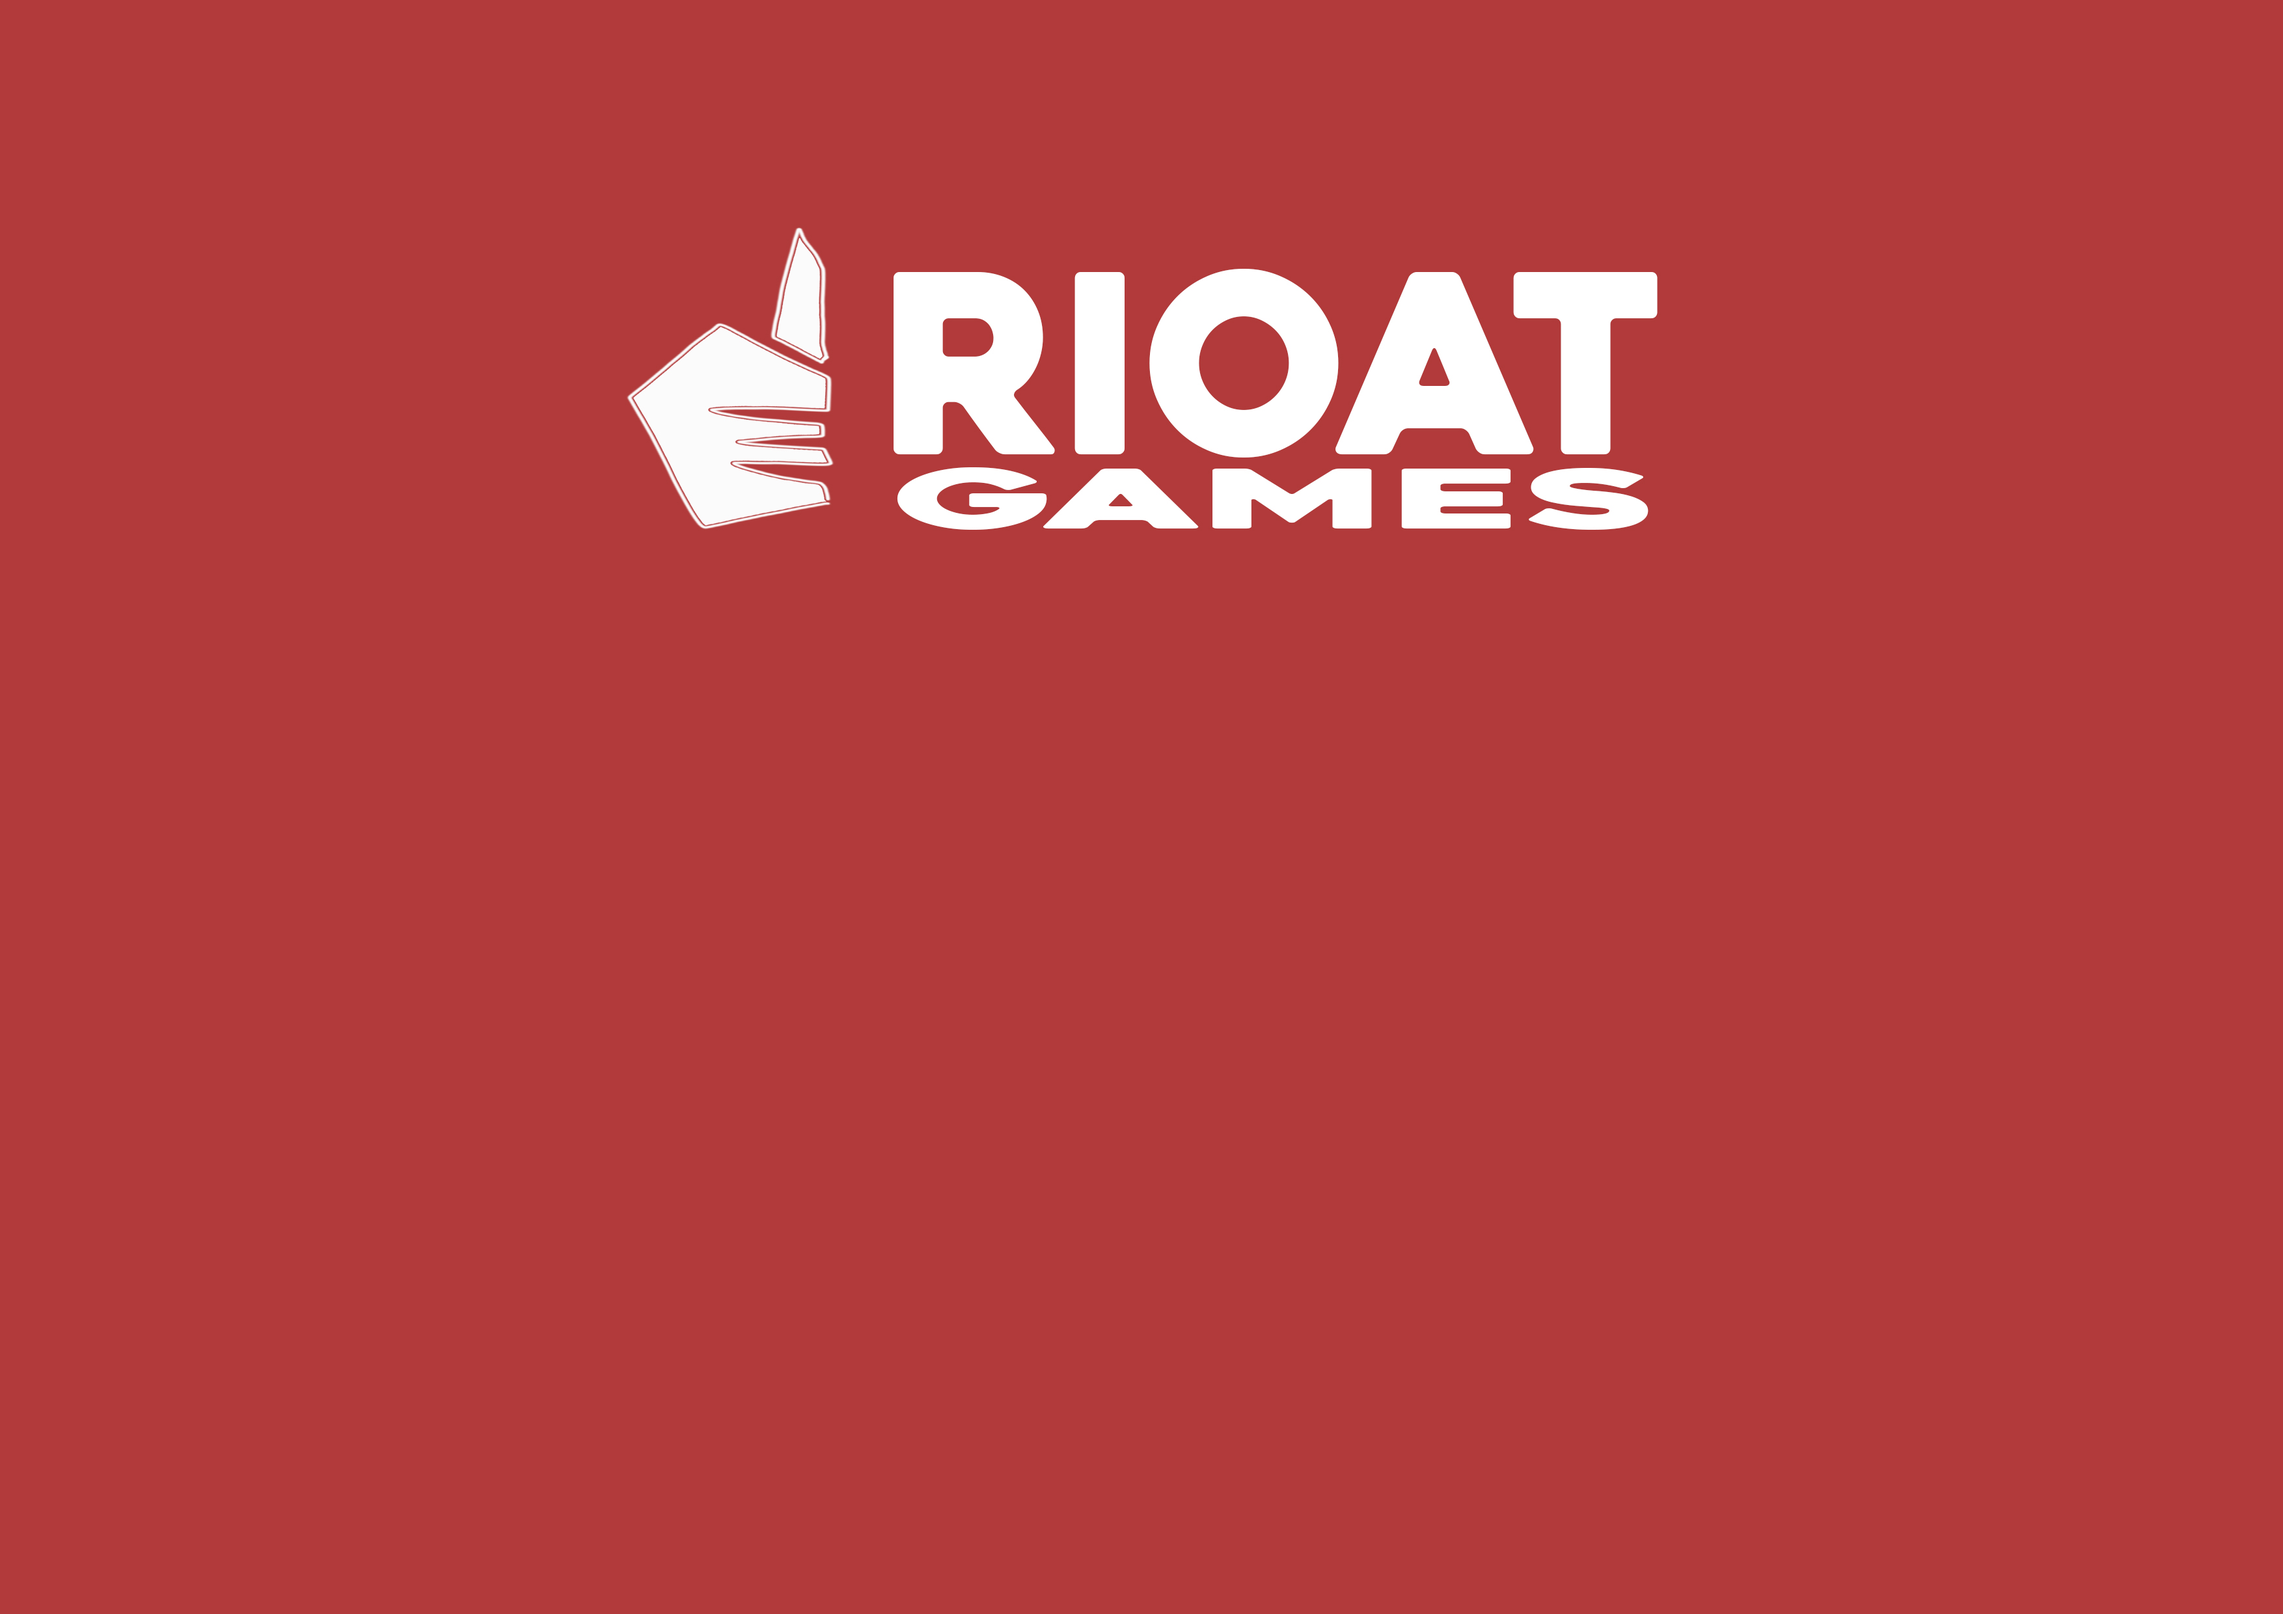
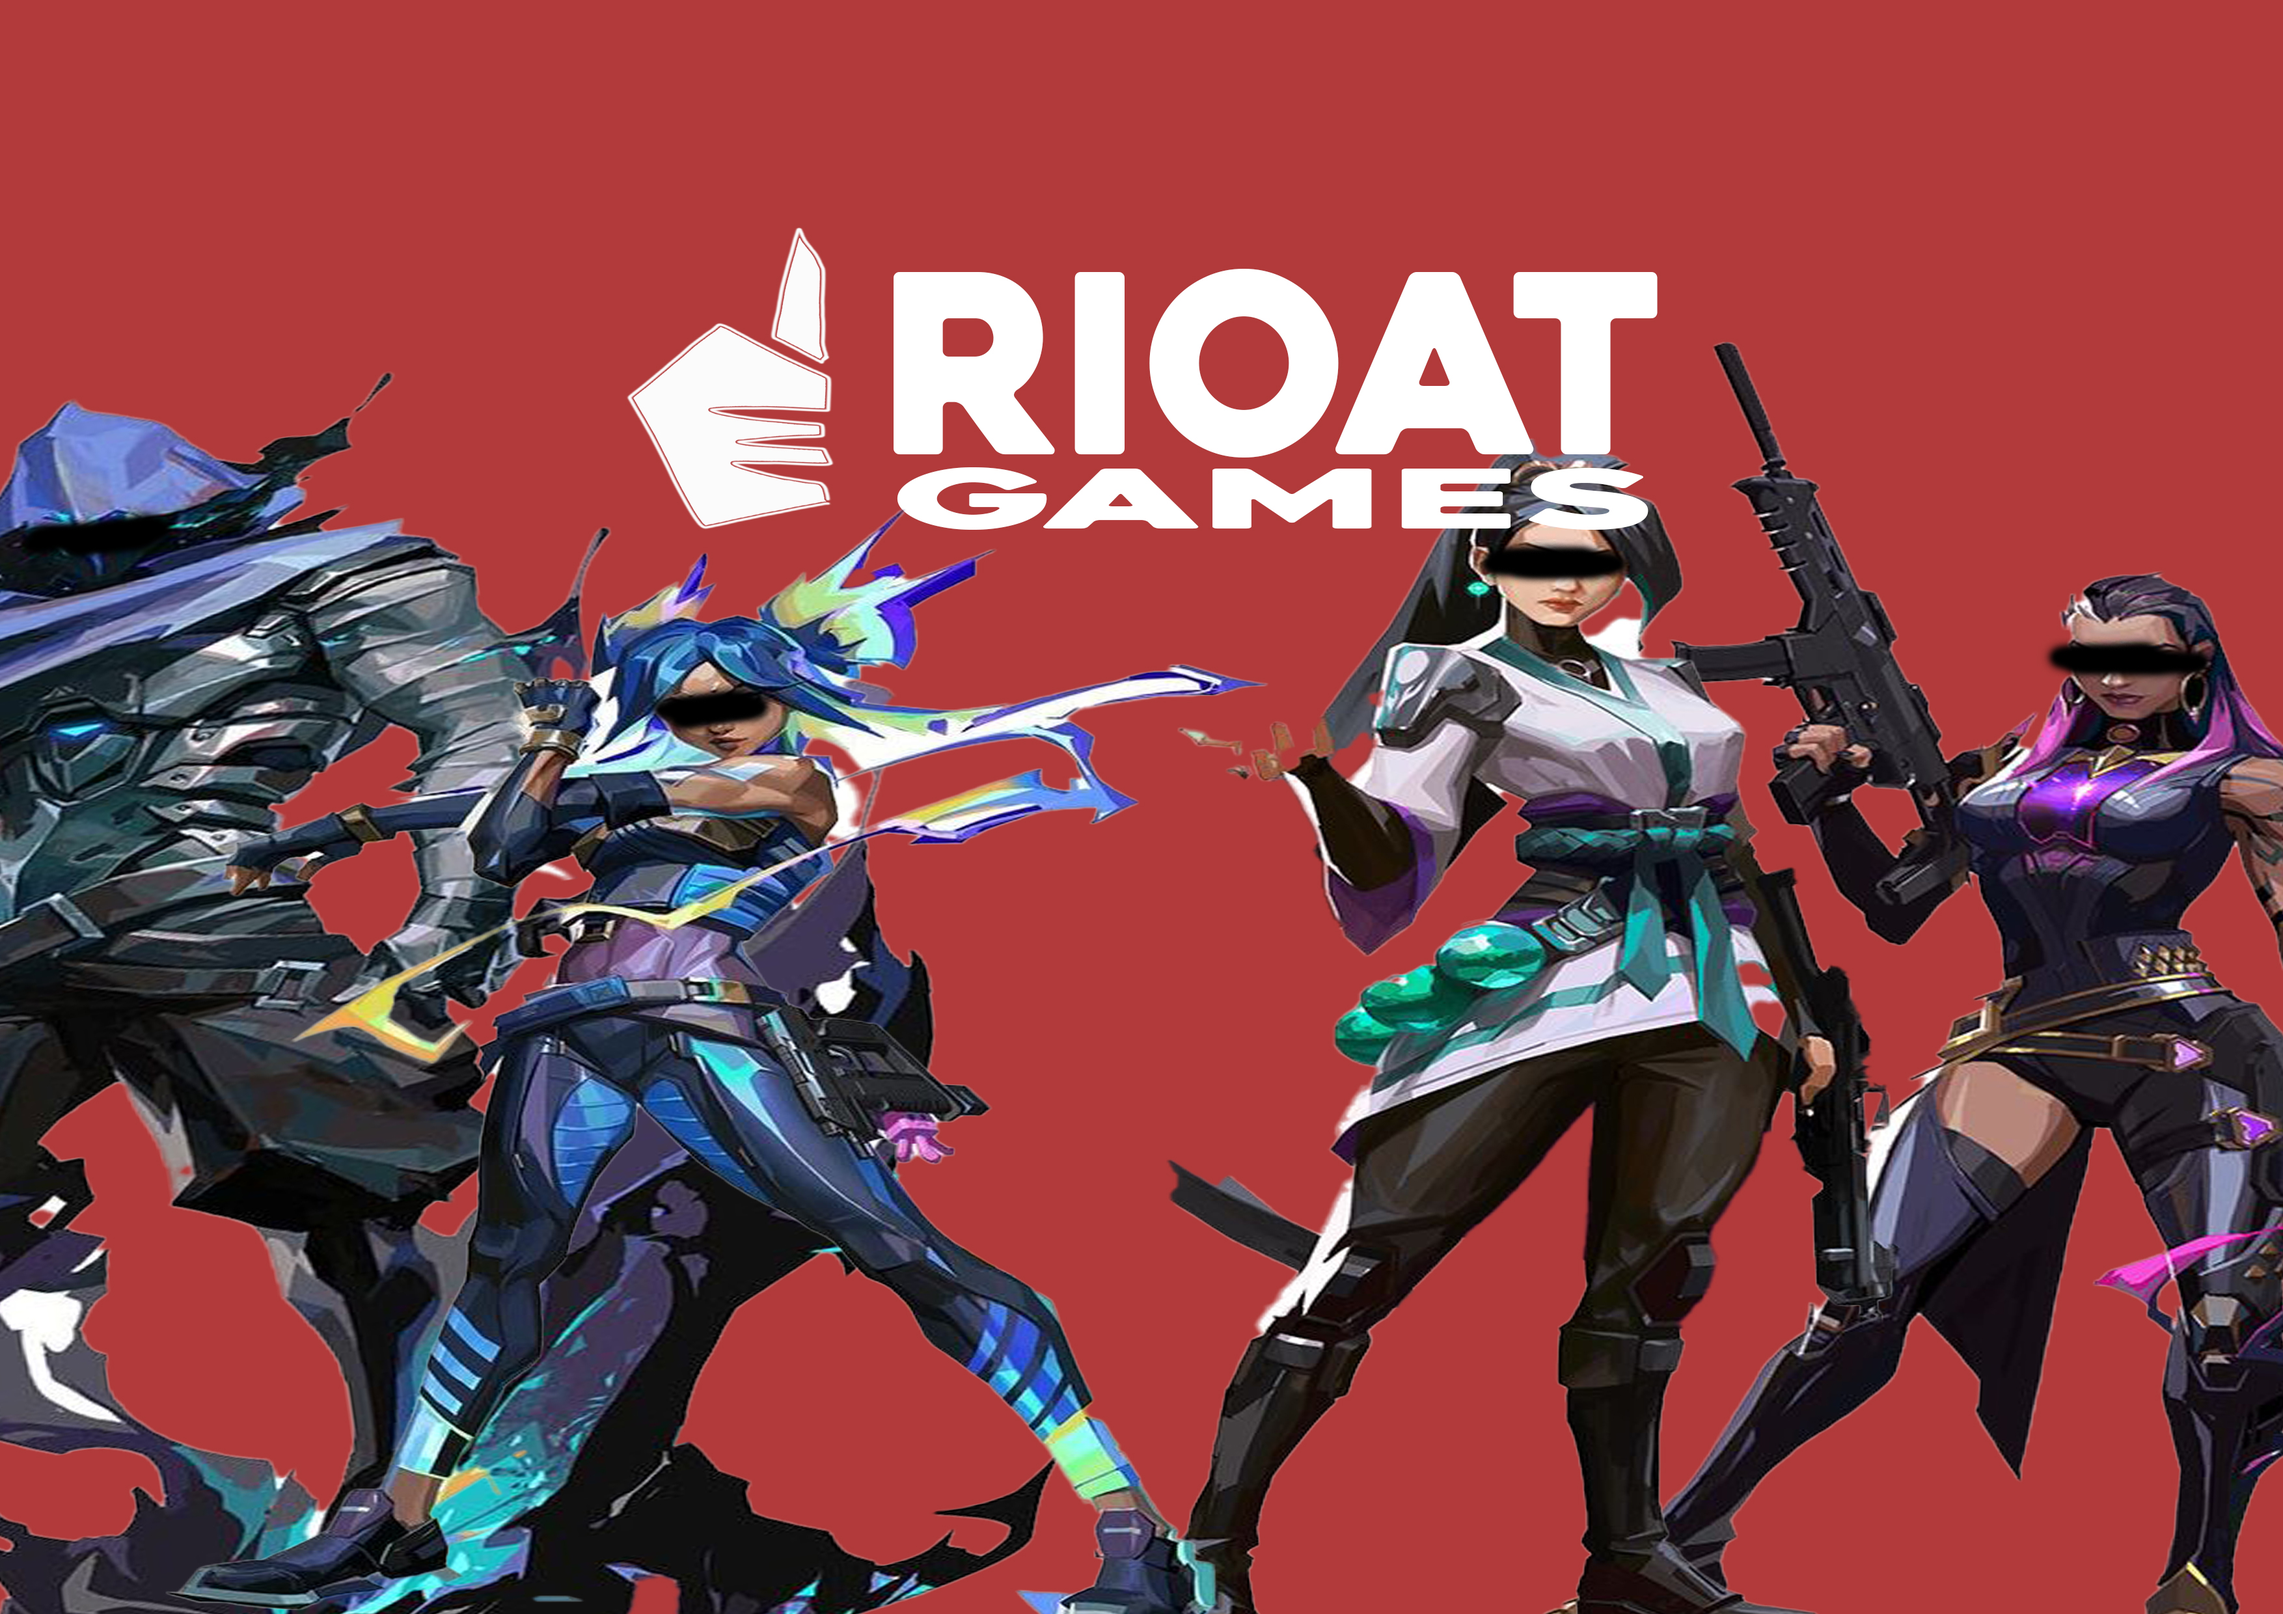
password+wallpaper
เพิ่มการซ่อนรหัสกับเปลี่ยนพื้นหลัง

diff --git a/Lab HTML/Lab_HTML-1.html b/Lab HTML/Lab_HTML-1.html
@@ -24,9 +24,7 @@
     top: 0;
     left: 50%;
     transform: translateX(-50%);
-    padding: 2px 60px;
-    background-color: white;
-    border-radius: 0 0 10px 10px;
+    color: white;
   }
   form{
     margin-top: 80px;
@@ -90,7 +88,7 @@
     <label>Username</label>
     </div>
     <div class="form_wrapper">
-      <input id="input" type="text" required>
+      <input id="input" type="password" value="FakePSW"  required>
       <label>Password</label>
     </div>
     <div class="remember">
